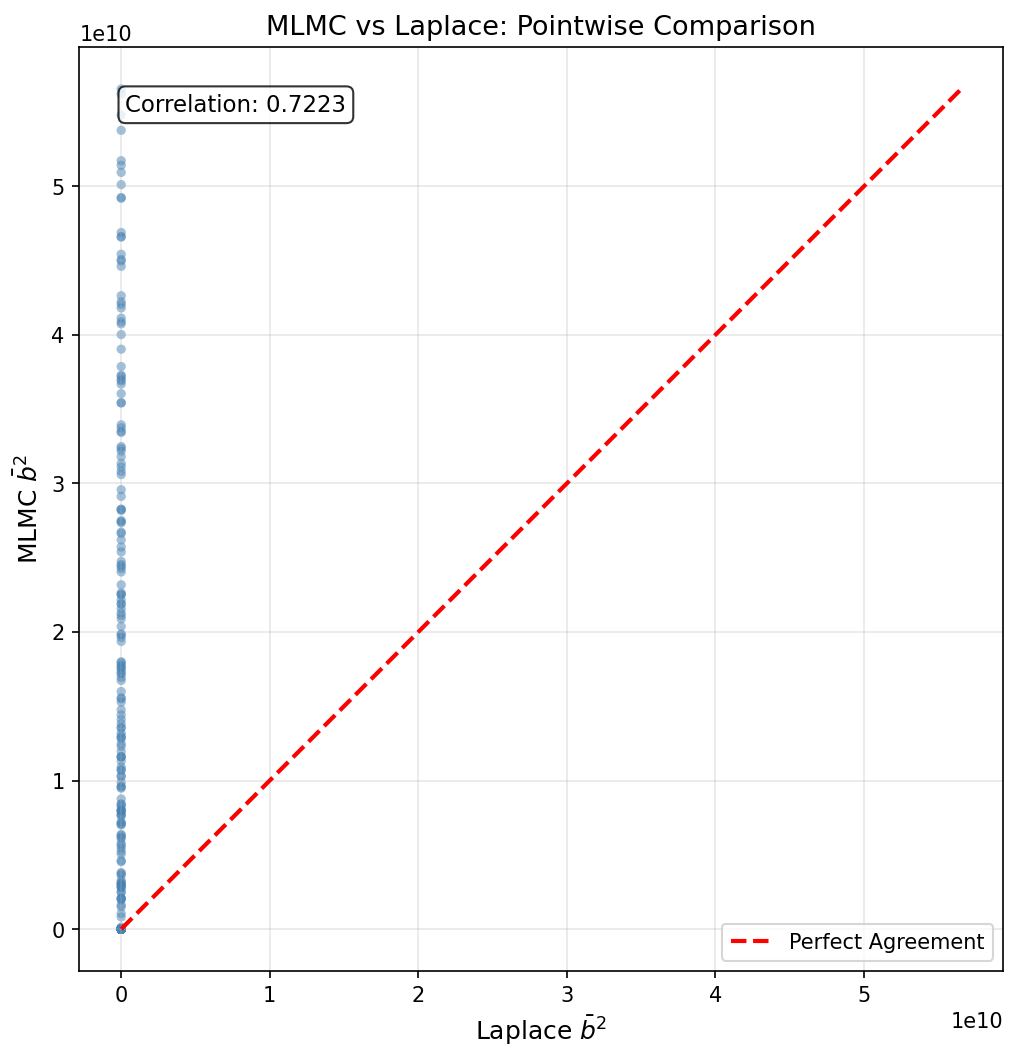
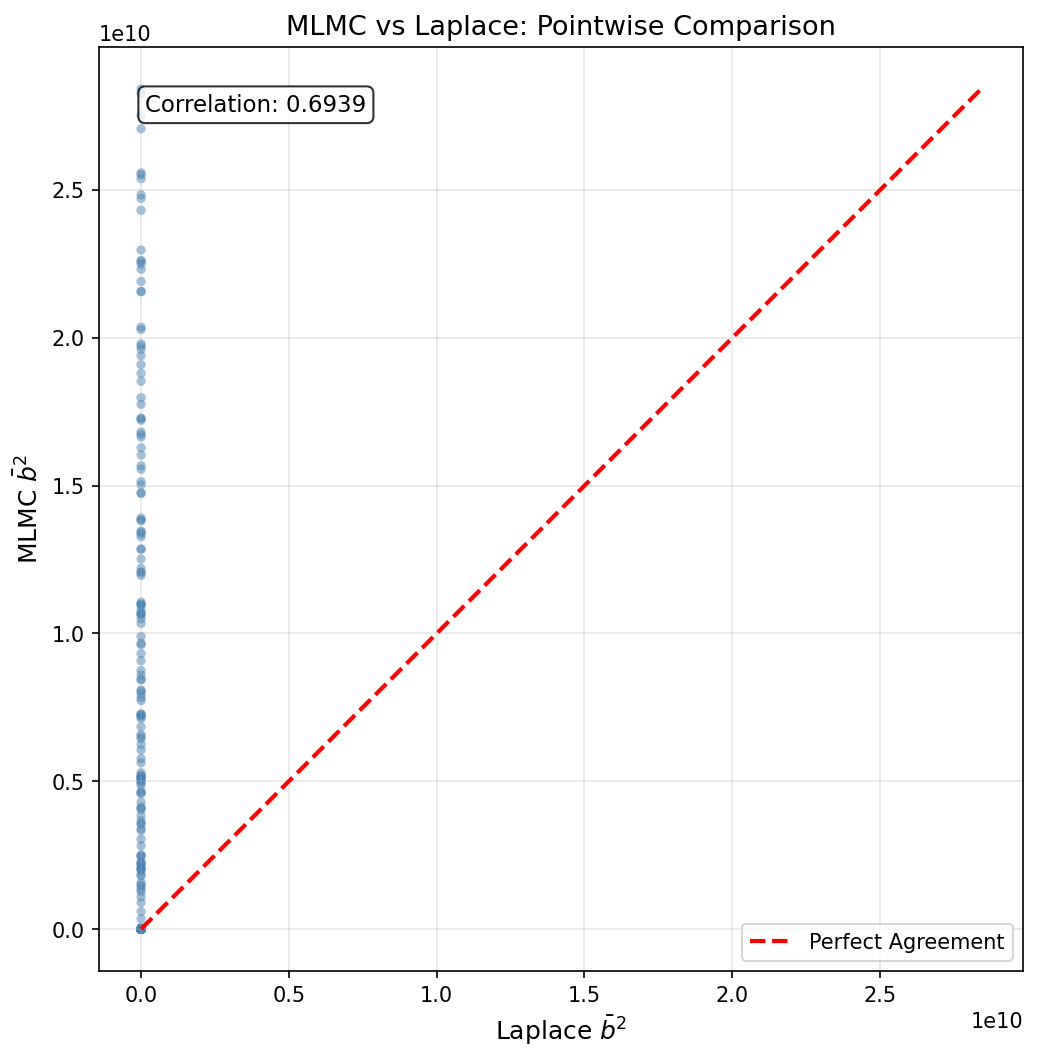
New Results Test

diff --git a/Comparison_Between_Methods/results/tables/exp5_parameter_sensitivity.md b/Comparison_Between_Methods/results/tables/exp5_parameter_sensitivity.md
@@ -4,39 +4,39 @@
 
 | Value | L2 Error | L∞ Error | MLMC Time (s) | Laplace Time (s) |
 |-------|----------|----------|---------------|------------------|
-| 0.05 | 2.0000 | 7.0671 | 0.39 | 0.42 |
-| 0.10 | 2.0000 | 5.3991 | 0.39 | 0.46 |
-| 0.15 | 2.0000 | 6.8711 | 0.41 | 0.37 |
-| 0.20 | 2.0000 | 5.6358 | 0.37 | 0.36 |
-| 0.25 | 2.0000 | 6.0405 | 0.38 | 0.38 |
-| 0.30 | 2.0000 | 7.4196 | 0.38 | 0.37 |
+| 0.05 | 2.0000 | 7.0671 | 0.37 | 0.39 |
+| 0.10 | 2.0000 | 5.3991 | 0.38 | 0.39 |
+| 0.15 | 2.0000 | 6.8711 | 0.36 | 0.37 |
+| 0.20 | 2.0000 | 5.6358 | 0.38 | 0.39 |
+| 0.25 | 2.0000 | 6.0405 | 0.37 | 0.36 |
+| 0.30 | 2.0000 | 7.4196 | 0.36 | 0.35 |
 | 0.40 | 2.0000 | 5.9121 | 0.36 | 0.35 |
-| 0.50 | 2.0000 | 5.9674 | 0.37 | 0.39 |
+| 0.50 | 2.0000 | 5.9674 | 0.37 | 0.38 |
 
 ## Correlation ($\rho$)
 
 | Value | L2 Error | L∞ Error | MLMC Time (s) | Laplace Time (s) |
 |-------|----------|----------|---------------|------------------|
-| -0.50 | 2.0000 | 4.7762 | 0.39 | 0.50 |
-| -0.25 | 2.0000 | 4.7550 | 0.37 | 0.45 |
-| 0.00 | 2.0000 | 6.6764 | 0.40 | 0.43 |
-| 0.25 | 2.0000 | 6.3767 | 0.39 | 0.43 |
-| 0.50 | 2.0000 | 9.7240 | 0.37 | 0.41 |
-| 0.70 | 2.0000 | 4.9941 | 0.37 | 0.39 |
-| 0.80 | 2.0000 | 6.1544 | 0.36 | 0.39 |
-| 0.90 | 2.0000 | 7.1376 | 0.36 | 0.41 |
+| -0.50 | 2.0000 | 4.7762 | 0.37 | 0.46 |
+| -0.25 | 2.0000 | 4.7550 | 0.36 | 0.41 |
+| 0.00 | 2.0000 | 6.6764 | 0.36 | 0.40 |
+| 0.25 | 2.0000 | 6.3767 | 0.36 | 0.39 |
+| 0.50 | 2.0000 | 9.7240 | 0.36 | 0.38 |
+| 0.70 | 2.0000 | 4.9941 | 0.37 | 0.38 |
+| 0.80 | 2.0000 | 6.1544 | 0.37 | 0.39 |
+| 0.90 | 2.0000 | 7.1376 | 0.36 | 0.39 |
 
 ## Interest Rate (r)
 
 | Value | L2 Error | L∞ Error | MLMC Time (s) | Laplace Time (s) |
 |-------|----------|----------|---------------|------------------|
-| 0.00 | 2.0000 | 5.5584 | 0.37 | 0.39 |
-| 0.02 | 2.0000 | 7.1650 | 0.37 | 0.39 |
-| 0.05 | 2.0000 | 9.7240 | 0.36 | 0.40 |
-| 0.08 | 2.0000 | 4.3215 | 0.37 | 0.41 |
-| 0.10 | 2.0000 | 6.8830 | 0.38 | 0.39 |
-| 0.12 | 2.0000 | 4.7646 | 0.37 | 0.39 |
-| 0.15 | 2.0000 | 3.9682 | 0.36 | 0.43 |
+| 0.00 | 2.0000 | 5.5584 | 0.36 | 0.38 |
+| 0.02 | 2.0000 | 7.1650 | 0.36 | 0.38 |
+| 0.05 | 2.0000 | 9.7240 | 0.36 | 0.38 |
+| 0.08 | 2.0000 | 4.3215 | 0.36 | 0.37 |
+| 0.10 | 2.0000 | 6.8830 | 0.36 | 0.39 |
+| 0.12 | 2.0000 | 4.7646 | 0.36 | 0.39 |
+| 0.15 | 2.0000 | 3.9682 | 0.37 | 0.38 |
 
 ## Maturity (T)
 
@@ -44,23 +44,23 @@
 |-------|----------|----------|---------------|------------------|
 | 0.10 | FAILED | - | - | - |
 | 0.25 | FAILED | - | - | - |
-| 0.50 | 2.0000 | 9.7240 | 0.37 | 0.42 |
+| 0.50 | 2.0000 | 9.7240 | 0.35 | 0.39 |
 | 0.75 | FAILED | - | - | - |
-| 1.00 | 2.0000 | 2.9265 | 0.79 | 0.39 |
-| 1.50 | 2.0000 | 2.9279 | 1.16 | 0.40 |
-| 2.00 | 2.0000 | 2.9297 | 1.52 | 0.37 |
+| 1.00 | 2.0000 | 2.9265 | 0.76 | 0.37 |
+| 1.50 | 2.0000 | 2.9279 | 1.11 | 0.36 |
+| 2.00 | 2.0000 | 2.9297 | 1.53 | 0.39 |
 
 ## Moneyness (K/S₀)
 
 | Value | L2 Error | L∞ Error | MLMC Time (s) | Laplace Time (s) |
 |-------|----------|----------|---------------|------------------|
-| 0.80 | 2.0000 | 9.7240 | 0.37 | 0.40 |
-| 0.90 | 2.0000 | 9.7240 | 0.37 | 0.39 |
-| 0.95 | 2.0000 | 9.7240 | 0.35 | 0.40 |
-| 1.00 | 2.0000 | 9.7240 | 0.37 | 0.38 |
-| 1.05 | 2.0000 | 9.7240 | 0.37 | 0.39 |
-| 1.10 | 2.0000 | 9.7240 | 0.37 | 0.41 |
-| 1.20 | 2.0000 | 9.7240 | 0.36 | 0.39 |
+| 0.80 | 2.0000 | 9.7240 | 0.36 | 0.40 |
+| 0.90 | 2.0000 | 9.7240 | 0.36 | 0.66 |
+| 0.95 | 2.0000 | 9.7240 | 0.44 | 0.39 |
+| 1.00 | 2.0000 | 9.7240 | 0.36 | 0.40 |
+| 1.05 | 2.0000 | 9.7240 | 0.36 | 0.38 |
+| 1.10 | 2.0000 | 9.7240 | 0.36 | 0.40 |
+| 1.20 | 2.0000 | 9.7240 | 0.36 | 0.40 |
 
 ## Key Observations
 

diff --git a/Comparison_Between_Methods/results/tables/exp2_convergence_stats.md b/Comparison_Between_Methods/results/tables/exp2_convergence_stats.md
@@ -5,9 +5,9 @@
 | Statistic | Value |
 |-----------|-------|
 | Number of runs | 20 |
-| Mean L2 error (individual) | 2815413.164465 |
-| Std L2 error | 2699126.981751 |
-| Final running avg L2 | 1776195.752144 |
+| Mean L2 error (individual) | 1981032.641743 |
+| Std L2 error | 1559150.347165 |
+| Final running avg L2 | 1213806.325049 |
 | Mean time per run | 0.39 s |
 | Total computation time | 7.8 s |
 
@@ -15,14 +15,14 @@
 
 | n | L2 Error |
 |---|----------|
-| 1 | 10363644.374008 |
-| 2 | 5474740.298731 |
-| 3 | 5666277.898703 |
-| 4 | 4249711.966205 |
-| 5 | 3548093.449539 |
-| 6 | 3687301.839488 |
-| 11 | 2454175.541493 |
-| 16 | 2111274.941359 |
-| 18 | 1883055.673473 |
-| 19 | 1807387.171807 |
-| 20 | 1776195.752144 |
+| 1 | 5548827.106126 |
+| 2 | 3035448.887385 |
+| 3 | 3298397.319988 |
+| 4 | 2473810.382043 |
+| 5 | 2216519.200592 |
+| 6 | 1907849.613105 |
+| 11 | 1492203.111096 |
+| 16 | 1384748.516078 |
+| 18 | 1245759.334015 |
+| 19 | 1204443.328775 |
+| 20 | 1213806.325049 |

diff --git a/Comparison_Between_Methods/results/tables/exp1_metrics.md b/Comparison_Between_Methods/results/tables/exp1_metrics.md
@@ -5,12 +5,12 @@
 | Metric | Value |
 |--------|-------|
 | L2 relative error | 2.000000 |
-| L∞ error | 56551886775.6862 |
-| Mean absolute difference | 18196515970.5393 |
+| L∞ error | 28416316569.0657 |
+| Mean absolute difference | 9098743280.7659 |
 | Mean relative difference | 200.00% |
-| Bias (MLMC - Laplace) | 18196515567.4284 |
-| Pearson correlation | 0.7223 |
-| Valid grid fraction | 51.7% |
+| Bias (MLMC - Laplace) | 9098742844.1152 |
+| Pearson correlation | 0.6939 |
+| Valid grid fraction | 44.5% |
 
 ## Parameters
 

diff --git a/Comparison_Between_Methods/results/tables/exp3_dimension_scaling.md b/Comparison_Between_Methods/results/tables/exp3_dimension_scaling.md
@@ -4,10 +4,10 @@
 
 | d | MLMC Time (s) | Laplace Time (s) | L2 Error | L∞ Error |
 |---|---------------|------------------|----------|----------|
-| 2 | 0.38 | 0.64 | 2.0000 | 10.0273 |
-| 3 | 0.39 | 1.35 | 2.0000 | 4.7220 |
-| 5 | 0.41 | 3.05 | 2.0000 | 7.3091 |
-| 10 | 0.50 | 10.68 | 1.9991 | 5.0095 |
+| 2 | 0.38 | 0.60 | 2.0000 | 9.7498 |
+| 3 | 0.40 | 1.32 | 2.0000 | 4.7120 |
+| 5 | 0.42 | 3.22 | 2.0000 | 3.7503 |
+| 10 | 0.49 | 9.82 | 1.9980 | 6.3118 |
 
 ## Key Observations
 
